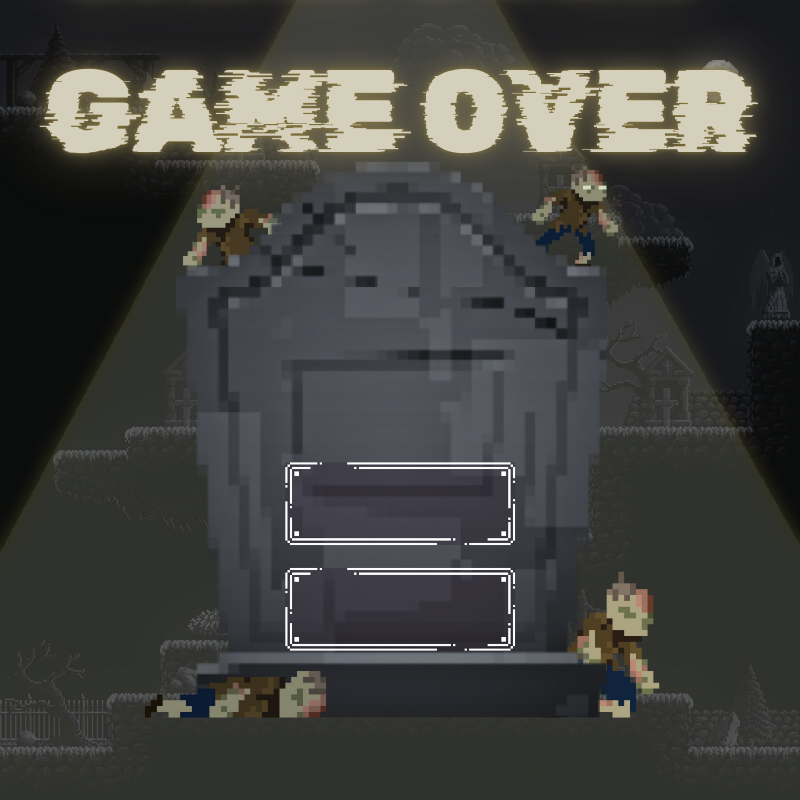
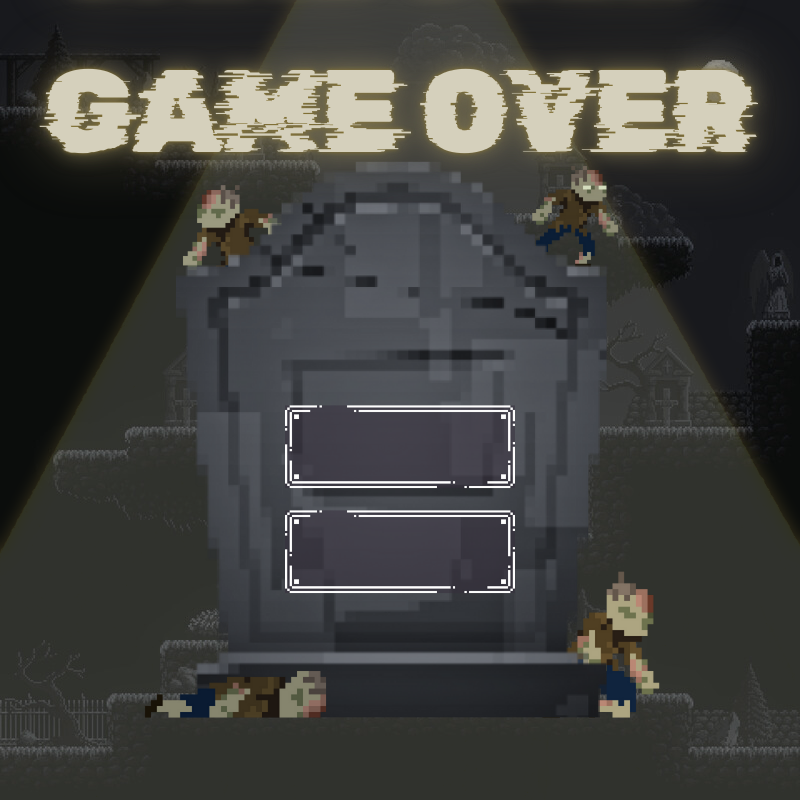
fix bug UI

Changed region(s): [[0.3438, 0.5, 0.6562, 0.8125]]

diff --git a/main.py b/main.py
@@ -9,6 +9,7 @@ SCREEN_WIDTH = 800
 SCREEN_HEIGHT = 800
 FPS = 60
 GAME_NAME = "Smash Zombies"
+GAME_TIME = 5 #seconds
 
 ZOMBIE_WIDTH = 94
 ZOMBIE_HEIGHT = 94
@@ -177,9 +178,10 @@ class Zombie:
                 self.current_escape_frame += 1           
 
     def canEscape(self):
-        if self.time_life ==  0:
+        if self.life_time ==  0:
+            self.life_time = ZOMBIE_LIFE_TIME
             return True
-        self.time_life = -1
+        self.life_time = -1
 #####################################################################
 
 class Intro:
@@ -298,7 +300,7 @@ class Menu:
         self.screen.blit(image.menu, (0, 0))
         self.screen.blit(self.play_text, (320, 530))
         self.screen.blit(self.quit_text, (64, 490))
-        self.screen.blit(self.volume_text, (566, 490))
+        self.screen.blit(self.volume_text, (574, 490))
         window.blit(self.screen, (0,0))
         pygame.display.update()
         
@@ -308,13 +310,14 @@ class PlayGame:
     def __init__ (self, screen, state):
         self.screen = screen
         self.state = state
-        self.period = 20
+        self.period = GAME_TIME
         self.countdown = self.period
         self.graves = [(195, 64), (516, 116), (143, 328), (413, 434), (25 , 329), (00 , 540), (71, 596)]
         
         self.cursor_img = image.sword
         self.cursor_rect = self.cursor_img.get_rect()
         self.pause_icon = image.pause
+        self.pause_icon_rect = self.pause_icon.get_rect(topleft=(750, 10))
         
         self.font = pygame.font.Font('fonts/m5x7.ttf', 50)
         self.score = 0
@@ -387,15 +390,15 @@ class PlayGame:
                 
     def displayMissed(self):
         missed_text = self.font.render("Missed: " + str(self.getMissed()), True, WHITE)
-        self.screen.blit(missed_text, (10, 10))
+        self.screen.blit(missed_text, (50, 10))
         
     def displayScore(self):
         score_text = self.font.render("Score: " + str(self.getScore()), True, WHITE)
-        self.screen.blit(score_text, (10, 50))
+        self.screen.blit(score_text, (50, 50))
     
     def displayTime(self):
         time_text = self.font.render("Time: " + str(self.countdown), True, WHITE)
-        self.screen.blit(time_text, (10, 90))
+        self.screen.blit(time_text, (50, 90))
         
     def run(self):
         for event in pygame.event.get():
@@ -433,7 +436,7 @@ class PlayGame:
                     self.state.setState('pause')
         
         self.screen.blit(image.background, (0, 0))
-        self.screen.blit(self.pause_icon, (750, 10))
+        self.screen.blit(self.pause_icon, (735, 20))
         self.drawZombies()
         
         self.displayScore()
@@ -473,11 +476,11 @@ class GameOver:
         pygame.mouse.set_visible(True)
         mouse = pygame.mouse.get_pos()
         
-        if 285 <= mouse[0] <= 515 and 462 <= mouse[1] <= 545:
+        if 285 <= mouse[0] <= 515 and 405 <= mouse[1] <= 488:
             self.play_again_hangover = True
         else:
             self.play_again_hangover = False
-        if 285 <= mouse[0] <= 567 and 473 <= mouse[1] <= 650:
+        if 285 <= mouse[0] <= 515 and 510 <= mouse[1] <= 593:
             self.menu_hangover = True
         else:
             self.menu_hangover = False
@@ -498,21 +501,21 @@ class GameOver:
                 
             if event.type == pygame.MOUSEBUTTONDOWN:
                 if event.button == 1:
-                    if 285 <= mouse[0] <= 515 and 462 <= mouse[1] <= 545:
+                    if 285 <= mouse[0] <= 515 and 405 <= mouse[1] <= 488:
                         self.state.setState('play_game')
                         self.resetState()
                         self.play_game.resetState()
-                    if 285 <= mouse[0] <= 567 and 473 <= mouse[1] <= 650:
+                    if 285 <= mouse[0] <= 515 and 510 <= mouse[1] <= 593:
                         self.state.setState('menu')
                         self.resetState()
                         self.play_game.resetState()
         
         self.screen.blit(image.game_over, (0, 0))
-        self.screen.blit(self.play_again_text, (315, 530))
-        self.screen.blit(self.menu_text, (325, 582))
+        self.screen.blit(self.play_again_text, (318, 420))
+        self.screen.blit(self.menu_text, (360, 525))
         
         score_text = self.font.render("Score: " + str(self.play_game.getScore()), True, WHITE)
-        score_rect = score_text.get_rect(center=(SCREEN_WIDTH // 2, 272))
+        score_rect = score_text.get_rect(center=(SCREEN_WIDTH // 2, 280))
         self.screen.blit(score_text, score_rect)
         
         missed_text = self.font.render("Missed: " + str(self.play_game.getMissed()), True, WHITE)
